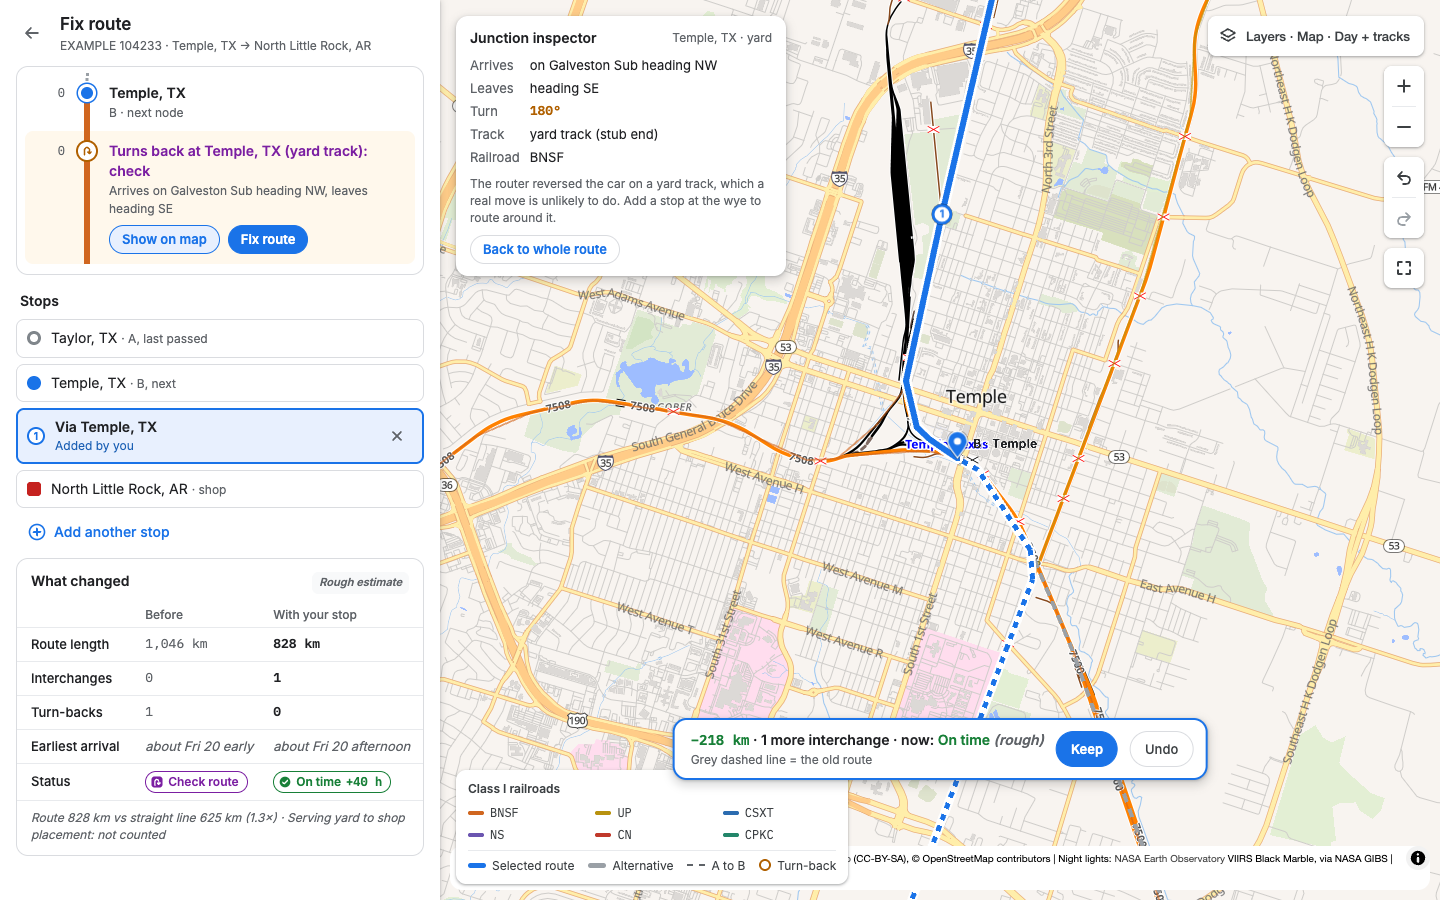
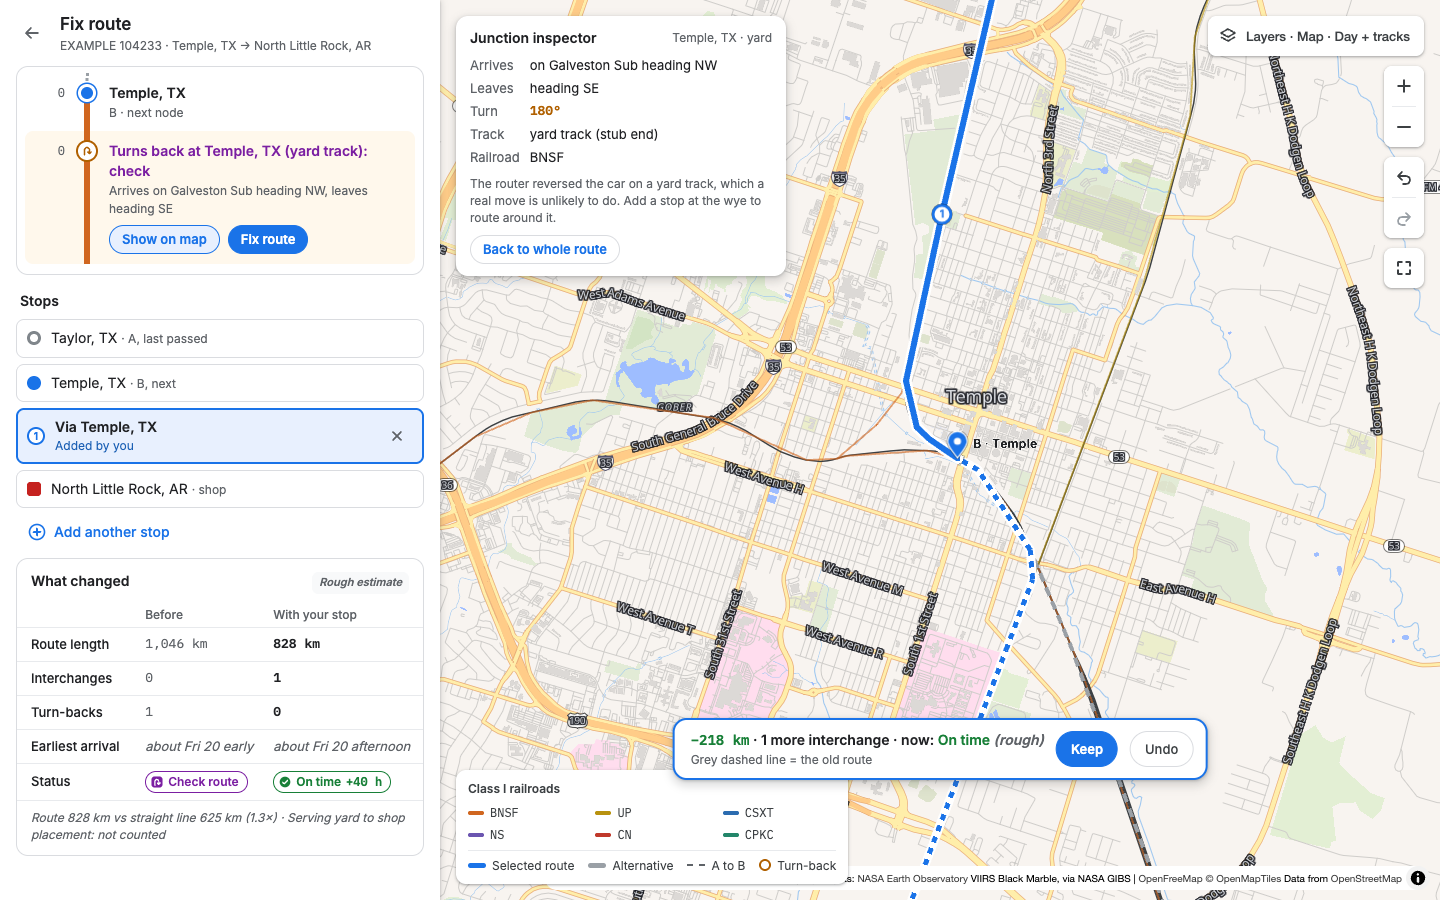
Real tracks as sharp vector lines instead of stretched raster tiles
OpenRailwayMap 256 px PNGs were scaled up to ~2.8x on retina and fractional zooms, so
lines went thick and blurry. Now OpenMapTiles rail lines from OpenFreeMap (already used by
the basemaps): solid main lines, dashed yard/siding track, widths by zoom, no subway/tram.
Old raster code deleted. Rail lines show from zoom 8 (the Class I layer covers below).

diff --git a/web/map/RealTracks.tsx b/web/map/RealTracks.tsx
@@ -1,21 +1,57 @@
-import { Layer, Source } from "react-map-gl/maplibre";
-import { OPENRAILWAYMAP_ATTRIBUTION, OPENRAILWAYMAP_TILES } from "./basemaps.ts";
+import { Layer, Source, type LineLayer } from "react-map-gl/maplibre";
+import { OPENFREEMAP_TILES } from "./basemaps.ts";
+
+const SOURCE = "real-tracks";
 
 /**
- * OpenRailwayMap raster tiles above the basemap. react-map-gl re-adds a <Source> and its <Layer>
- * after every style load, which is what keeps this overlay alive across basemap switches.
+ * The rail lines of OpenStreetMap as thin vector lines. Raster tiles were stretched between zoom
+ * levels and on high-density screens, so their lines went thick and blurry; vector lines are drawn
+ * at the screen's own resolution. The tiles carry rail from zoom 8; further out the Class I network
+ * layer shows the main lines.
+ *
+ * `dark`: the ground is dark (the night street map or satellite imagery), so the lines are light.
  */
-export function RealTracks() {
+export function realTrackLayers(dark: boolean): LineLayer[] {
+  const color = dark ? "#e8eaed" : "#3c4043";
+  return [
+    {
+      // OpenMapTiles sets `service` on yard, siding, spur and crossover track only.
+      id: "real-tracks-service",
+      type: "line",
+      source: SOURCE,
+      "source-layer": "transportation",
+      filter: ["all", ["==", ["get", "class"], "rail"], ["has", "service"]],
+      paint: {
+        "line-color": color,
+        "line-opacity": 0.7,
+        "line-width": ["interpolate", ["linear"], ["zoom"], 14, 0.6, 16, 1.4],
+        "line-dasharray": [3, 2],
+      },
+    },
+    {
+      id: "real-tracks-main",
+      type: "line",
+      source: SOURCE,
+      "source-layer": "transportation",
+      filter: ["all", ["==", ["get", "class"], "rail"], ["!", ["has", "service"]]],
+      paint: {
+        "line-color": color,
+        "line-width": ["interpolate", ["linear"], ["zoom"], 8, 0.5, 12, 1.2, 16, 2.2],
+      },
+    },
+  ];
+}
+
+/**
+ * Drawn over the basemap and under deck.gl's canvas (the network and the route). react-map-gl
+ * re-adds a <Source> and its layers after every style load, which keeps them across basemap switches.
+ */
+export function RealTracks({ dark }: { dark: boolean }) {
   return (
-    <Source
-      id="openrailwaymap"
-      type="raster"
-      tiles={OPENRAILWAYMAP_TILES}
-      tileSize={256}
-      maxzoom={19}
-      attribution={OPENRAILWAYMAP_ATTRIBUTION}
-    >
-      <Layer id="openrailwaymap" type="raster" />
+    <Source id={SOURCE} type="vector" url={OPENFREEMAP_TILES}>
+      {realTrackLayers(dark).map((layer) => (
+        <Layer key={layer.id} {...layer} />
+      ))}
     </Source>
   );
 }

diff --git a/web/map/RealTracks.test.ts b/web/map/RealTracks.test.ts
@@ -1,0 +1,47 @@
+import { expression, featureFilter, type Feature } from "@maplibre/maplibre-gl-style-spec";
+import { describe, expect, it } from "vitest";
+import { realTrackLayers } from "./RealTracks.tsx";
+
+const [service, main] = realTrackLayers(false);
+
+/** Which Real tracks layer draws an OpenMapTiles transportation line with these properties. */
+function drawnBy(properties: Record<string, string>): string[] {
+  const feature = { type: 2, properties } as Feature;
+  return [service, main].filter((layer) => featureFilter(layer.filter).filter({ zoom: 14 }, feature)).map((layer) => layer.id);
+}
+
+function widthAt(layer: typeof main, zoom: number): number {
+  const width = expression.createExpression(layer.paint?.["line-width"]);
+  if (width.result !== "success") throw new Error(`${layer.id} has a bad line-width`);
+  return width.value.evaluate({ zoom }) as number;
+}
+
+describe("Real tracks", () => {
+  it("draws main and branch lines solid, and yard, siding, spur and crossover track dashed", () => {
+    expect(drawnBy({ class: "rail", subclass: "rail" })).toEqual(["real-tracks-main"]);
+    for (const kind of ["yard", "siding", "spur", "crossover"]) {
+      expect(drawnBy({ class: "rail", subclass: "rail", service: kind })).toEqual(["real-tracks-service"]);
+    }
+    expect(service.paint?.["line-dasharray"]).toBeDefined();
+    expect(main.paint?.["line-dasharray"]).toBeUndefined();
+  });
+
+  it("leaves out subways, trams and light rail, which no railcar runs on, and roads", () => {
+    for (const subclass of ["subway", "tram", "light_rail"]) expect(drawnBy({ class: "transit", subclass })).toEqual([]);
+    expect(drawnBy({ class: "primary" })).toEqual([]);
+  });
+
+  it("keeps the lines thin: a hairline zoomed out, about 2 px at street level", () => {
+    expect(widthAt(main, 8)).toBe(0.5);
+    expect(widthAt(main, 9.5)).toBeLessThan(1);
+    expect(widthAt(main, 15.5)).toBeGreaterThanOrEqual(1.5);
+    expect(widthAt(main, 18)).toBeLessThanOrEqual(2.5);
+    expect(widthAt(service, 15.5)).toBeLessThan(widthAt(main, 15.5));
+  });
+
+  it("draws light lines on a dark ground and dark lines on the day map", () => {
+    const [, onDark] = realTrackLayers(true);
+    expect(onDark.paint?.["line-color"]).toBe("#e8eaed");
+    expect(main.paint?.["line-color"]).toBe("#3c4043");
+  });
+});

diff --git a/web/map/MapCanvas.tsx b/web/map/MapCanvas.tsx
@@ -166,13 +166,14 @@ export default function MapCanvas(props: MapCanvasProps): ReactElement {
     watchCamera(event.target);
   };
   const railroadsShown = scene?.kind === "route" ? [scene.selected, ...scene.alternatives] : scene?.kind === "fleet" && scene.selected ? [scene.selected] : [];
+  const darkStreets = look.base === "night" && (layers.light === "night" || zoom >= AUTO_DARK_ZOOM);
 
   return (
     <div className="map-canvas" ref={root}>
       <MapGL
         initialViewState={INITIAL_VIEW}
         // `zoom` changes only when a move ends, so the style never swaps in the middle of a zoom.
-        mapStyle={basemapStyle(layers.basemap, look.base === "night" && (layers.light === "night" || zoom >= AUTO_DARK_ZOOM))}
+        mapStyle={basemapStyle(layers.basemap, darkStreets)}
         // Map ↔ Satellite ↔ dark share nothing, so load each style clean instead of diffing into it.
         styleDiffing={false}
         attributionControl={false}
@@ -188,7 +189,7 @@ export default function MapCanvas(props: MapCanvasProps): ReactElement {
         <AttributionControl compact customAttribution={NETWORK_ATTRIBUTION} position="bottom-right" />
         <NightLights mode={layers.light === "day" ? "off" : layers.light} now={props.now} satellite={layers.basemap === "satellite"} />
         <FoldAttribution fold={narrow} />
-        {(layers.tracks || content?.forceTracks) && <RealTracks />}
+        {(layers.tracks || content?.forceTracks) && <RealTracks dark={darkStreets || layers.basemap === "satellite"} />}
         {content?.focus.kind !== "place" && <FitBounds bounds={scene?.bounds ?? null} nonce={fitNonce} leftInset={scene?.kind === "fleet" && !narrow ? CAR_CARD_INSET : 0} topInset={scene?.kind === "fleet" && narrow ? CAR_CARD_TOP_PHONE : 0} />}
         <FlyTo focus={content?.focus} />
         <Controls canvas={props} onFit={() => setFitNonce((n) => n + 1)} />

diff --git a/web/map/basemaps.ts b/web/map/basemaps.ts
@@ -2,7 +2,7 @@
  * Free basemaps, no API key.
  * - Map: OpenFreeMap vector styles (OpenStreetMap data), light "liberty" / dark "dark".
  * - Satellite: Esri World Imagery + Esri boundaries & places labels.
- * - Optional overlay: OpenRailwayMap tracks, stations and yards.
+ * - Optional overlay, Real tracks: the rail lines in the same OpenFreeMap vector tiles.
  * Check each provider's terms before production use (Esri imagery needs an ArcGIS account for commercial apps).
  */
 import type { StyleSpecification } from "maplibre-gl";
@@ -40,8 +40,5 @@ export function basemapStyle(kind: BasemapKind, dark: boolean): string | StyleSp
   return `https://tiles.openfreemap.org/styles/${dark ? "dark" : "liberty"}`;
 }
 
-export const OPENRAILWAYMAP_TILES = ["a", "b", "c"].map(
-  (s) => `https://${s}.tiles.openrailwaymap.org/standard/{z}/{x}/{y}.png`,
-);
-export const OPENRAILWAYMAP_ATTRIBUTION =
-  'Rail overlay © <a href="https://www.openrailwaymap.org/">OpenRailwayMap</a> (CC-BY-SA), © OpenStreetMap contributors';
+/** OpenFreeMap's vector tiles (OpenMapTiles schema) as TileJSON, which also carries their attribution. */
+export const OPENFREEMAP_TILES = "https://tiles.openfreemap.org/planet";
